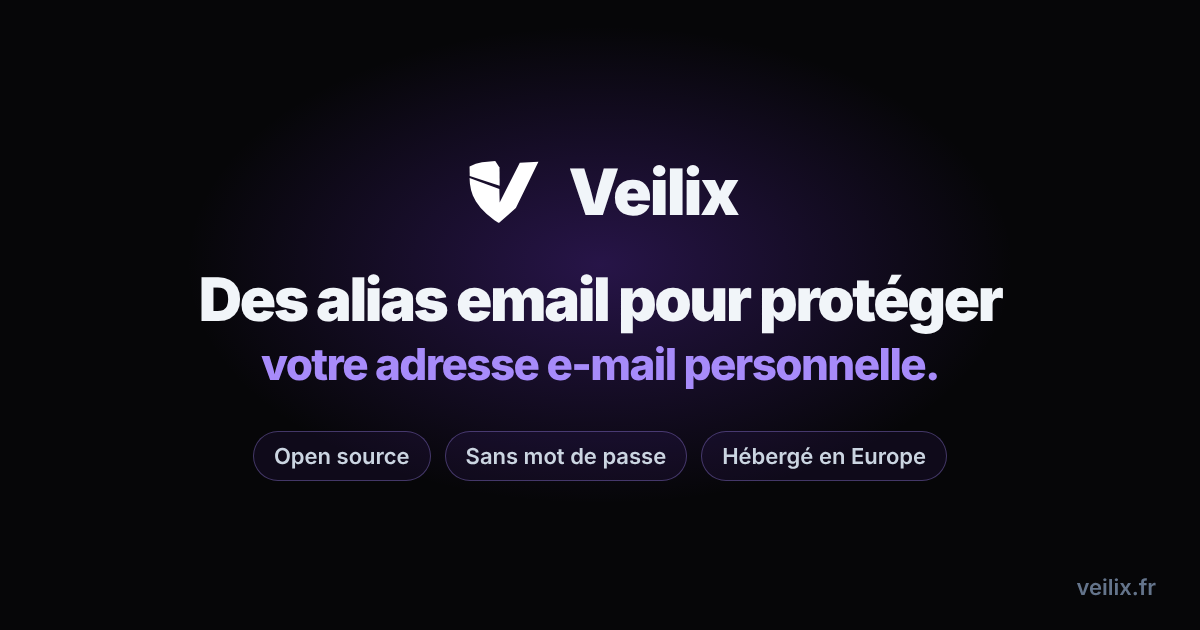
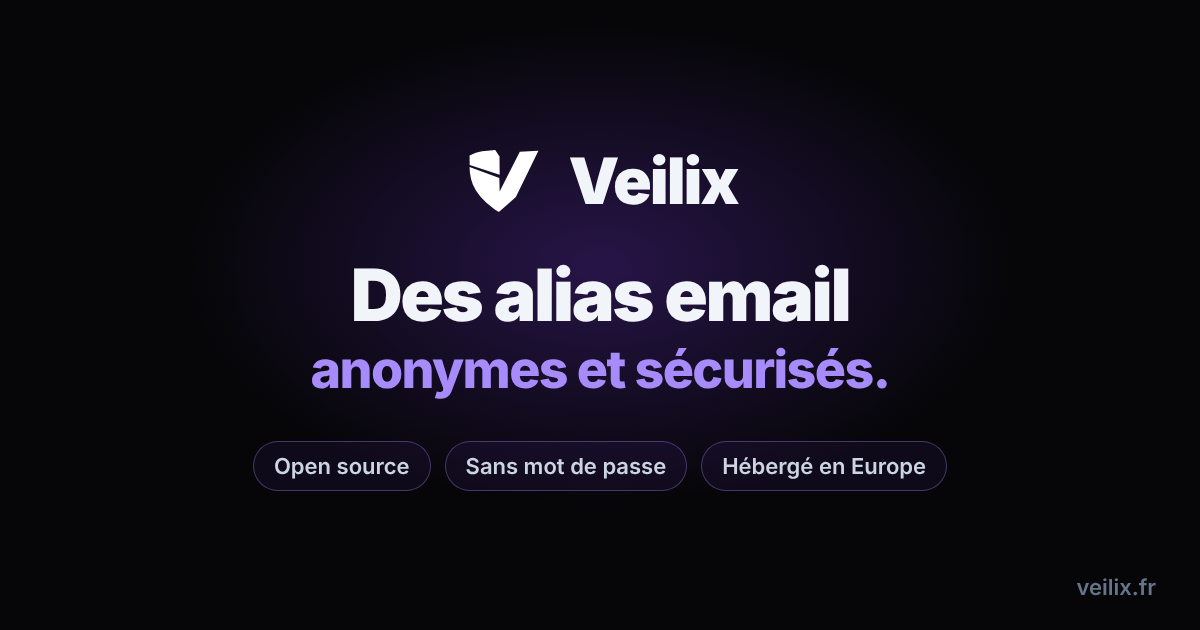
Nouveau titre d'accueil

Changed region(s): [[0.1542, 0.4222, 0.8325, 0.6333], [0.2158, 0.6937, 0.7708, 0.7841], [0.37, 0.2413, 0.6167, 0.3619]]

diff --git a/veilix-frontend/app/layout.tsx b/veilix-frontend/app/layout.tsx
@@ -8,7 +8,7 @@ const DESCRIPTION = "Créez un alias email pour chaque site et gardez votre adre
 export const metadata: Metadata = {
   metadataBase: new URL(SITE_URL),
   title: {
-    default: 'Veilix : alias email pour protéger votre adresse e-mail personnelle',
+    default: 'Veilix : alias email anonymes et sécurisés',
     template: '%s | Veilix',
   },
   description: DESCRIPTION,
@@ -20,12 +20,12 @@ export const metadata: Metadata = {
     url: SITE_URL,
     siteName: 'Veilix',
     locale: 'fr_FR',
-    title: 'Veilix : alias email pour protéger votre adresse e-mail personnelle',
+    title: 'Veilix : alias email anonymes et sécurisés',
     description: DESCRIPTION,
   },
   twitter: {
     card: 'summary_large_image',
-    title: 'Veilix : alias email pour protéger votre adresse e-mail personnelle',
+    title: 'Veilix : alias email anonymes et sécurisés',
     description: DESCRIPTION,
   },
   robots: { index: true, follow: true, googleBot: { index: true, follow: true, 'max-image-preview': 'large', 'max-snippet': -1 } },

diff --git a/veilix-frontend/lib/translations.ts b/veilix-frontend/lib/translations.ts
@@ -162,8 +162,8 @@ export const T = {
       },
     },
     h1a: 'Des alias email',
-    h1b: 'pour protéger votre adresse e-mail personnelle.',
-    sub1: 'Créez vos alias instantanément.',
+    h1b: 'anonymes et sécurisés.',
+    sub1: 'Un alias différent pour chaque site.',
     sub2: 'Votre adresse e-mail personnelle reste privée pour toujours.',
     cta1: 'Essayer gratuitement 14 jours',
     cta2: 'Découvrir le fonctionnement',
@@ -467,8 +467,8 @@ export const T = {
       },
     },
     h1a: 'Email aliases',
-    h1b: 'to protect your personal email address.',
-    sub1: 'Create aliases instantly.',
+    h1b: 'anonymous and secure.',
+    sub1: 'A different alias for every site.',
     sub2: 'Your personal email address stays private for good.',
     cta1: 'Start 14-day free trial',
     cta2: 'How it works',

diff --git a/veilix-frontend/components/landing/Hero.tsx b/veilix-frontend/components/landing/Hero.tsx
@@ -70,7 +70,7 @@ export function Hero({ t }: { t: Translations }) {
         <span style={{ display: 'block', fontSize: 'clamp(22px, 3.2vw, 40px)', fontWeight: 800, lineHeight: 1.1, letterSpacing: '-1.5px', color: 'var(--c-a78bfa)' }}>{t.h1b}</span>
       </h1>
 
-      <p style={{ fontSize: 16, color: 'var(--c-64748b)', maxWidth: 400, lineHeight: 1.8, marginBottom: 36, marginTop: 18, position: 'relative', zIndex: 1, animation: 'fadeUp 0.6s ease 0.2s both' }}>
+      <p style={{ fontSize: 16, color: 'var(--c-64748b)', maxWidth: 500, lineHeight: 1.8, marginBottom: 36, marginTop: 18, position: 'relative', zIndex: 1, animation: 'fadeUp 0.6s ease 0.2s both' }}>
         {t.sub1}<br />{t.sub2}
       </p>
 
